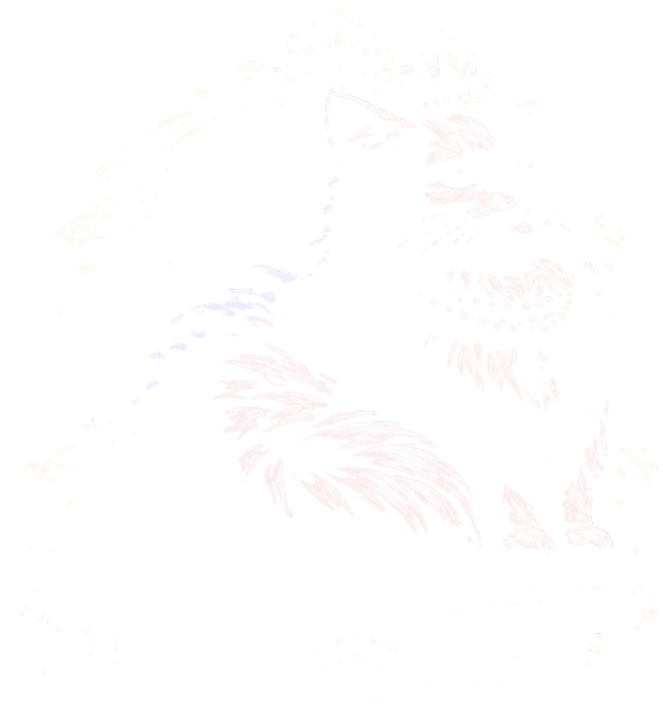
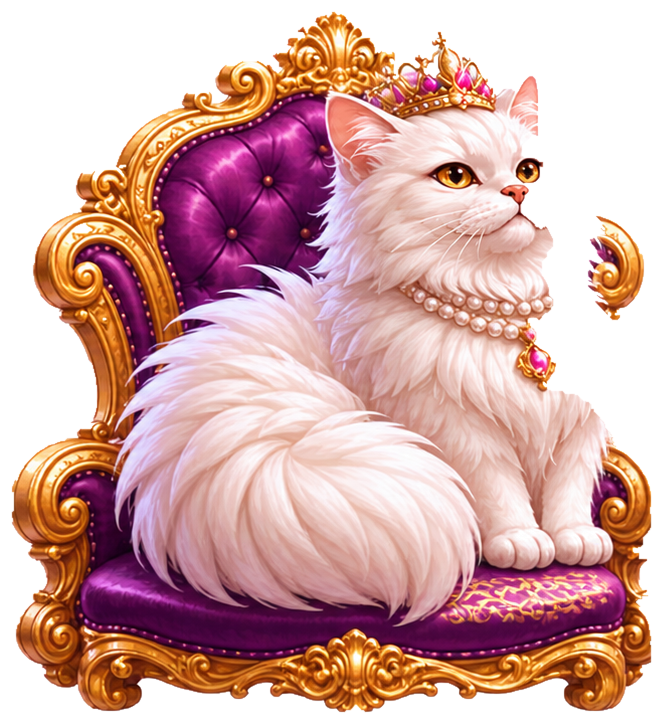
Add files via upload

diff --git a/index.html b/index.html
@@ -74,7 +74,9 @@ main{max-width:1060px;background:#fff5ed}
 .hero-cat{height:min(112vw,510px)!important}
 .hero-cat #expression{width:80px!important;height:80px!important;right:5%!important;bottom:4%!important}
 }
-</style></head><body><main><section class="palace"><div class="top"><button class="round" id="notice-open" onclick="document.getElementById('settings-dialog').showModal()" aria-label="通知">🔔</button><div class="brand"><div class="device-clock" id="device-clock" aria-label="現在時刻"></div><h1>♛ 猫さま監督官 ♛</h1><small>ねこさま かんとくかん</small></div><button class="round" id="settings-open" aria-label="設定">⚙</button></div><div class="queen"><div class="hero-cat"><img id="cat" src="queen-throne.png" alt="玉座に座る猫さま"><img id="expression" src="expression-normal.png" alt="猫さまの表情"></div><div class="hero-side"><div id="speech" class="bubble">今日の任務を申しつけるにゃ。</div></div></div></div><div id="mood" class="mood">👑 優雅にお待ちです</div></section><section class="panel"><div class="tabs"><button class="selected" data-tab="tasks">♛ 今日の任務 <span id="count">0</span></button><button data-tab="done">完了した任務</button><button data-tab="rewards">ご褒美</button></div><div id="tasks-panel"><form id="form" class="form"><input id="task" required maxlength="120" placeholder="やることを入力…"><button type="submit">＋ 追加</button><label>⏰ 締切（任意）<input type="datetime-local" id="deadline"></label></form><div id="list"></div></div><div id="rewards-panel" hidden></div></section><nav class="bottomnav" aria-label="メニュー"><button class="selected" type="button" onclick="window.scrollTo({top:0,behavior:'smooth'})">⌂ ホーム</button><button type="button" onclick="document.getElementById('task').focus()">☑ タスク</button><button type="button" onclick="document.getElementById('cat').scrollIntoView({behavior:'smooth',block:'center'})">♛ 猫さま</button><button type="button" onclick="document.getElementById('settings-dialog').showModal()">⚙ 設定</button></nav><div class="foot">猫さま監督官 Ver.7.6 · 高画質素材版<br>催促通知は画面を開いている間だけ。閉じた状態のプッシュ通知は今後対応予定です。</div></main><dialog id="settings-dialog"><h2>🔔 猫さまの催促設定</h2><div class="notice"><label>通知間隔 <select id="interval"><option value="1">1分（テスト用）</option><option value="5">5分</option><option value="15">15分</option><option value="30">30分</option></select></label><label><input id="quiet" type="checkbox" checked> 夜22時〜朝8時は通知しない</label><button id="enable" type="button">通知を有効にしてテスト送信</button><small id="status" aria-live="polite">タスクを追加すると催促するにゃ。</small><small>締切あり：締切後から催促します。アプリを閉じている間の通知は未対応です。</small></div><p style="text-align:right"><button id="settings-close" type="button">閉じる</button></p></dialog><script>
+</style><style id="v77">
+.hero-cat #cat{display:block!important;visibility:visible!important;opacity:1!important;mix-blend-mode:normal!important;mask-image:none!important;-webkit-mask-image:none!important}
+</style></head><body><main><section class="palace"><div class="top"><button class="round" id="notice-open" onclick="document.getElementById('settings-dialog').showModal()" aria-label="通知">🔔</button><div class="brand"><div class="device-clock" id="device-clock" aria-label="現在時刻"></div><h1>♛ 猫さま監督官 ♛</h1><small>ねこさま かんとくかん</small></div><button class="round" id="settings-open" aria-label="設定">⚙</button></div><div class="queen"><div class="hero-cat"><img id="cat" src="queen-throne.png" alt="玉座に座る猫さま"><img id="expression" src="expression-normal.png" alt="猫さまの表情"></div><div class="hero-side"><div id="speech" class="bubble">今日の任務を申しつけるにゃ。</div></div></div></div><div id="mood" class="mood">👑 優雅にお待ちです</div></section><section class="panel"><div class="tabs"><button class="selected" data-tab="tasks">♛ 今日の任務 <span id="count">0</span></button><button data-tab="done">完了した任務</button><button data-tab="rewards">ご褒美</button></div><div id="tasks-panel"><form id="form" class="form"><input id="task" required maxlength="120" placeholder="やることを入力…"><button type="submit">＋ 追加</button><label>⏰ 締切（任意）<input type="datetime-local" id="deadline"></label></form><div id="list"></div></div><div id="rewards-panel" hidden></div></section><nav class="bottomnav" aria-label="メニュー"><button class="selected" type="button" onclick="window.scrollTo({top:0,behavior:'smooth'})">⌂ ホーム</button><button type="button" onclick="document.getElementById('task').focus()">☑ タスク</button><button type="button" onclick="document.getElementById('cat').scrollIntoView({behavior:'smooth',block:'center'})">♛ 猫さま</button><button type="button" onclick="document.getElementById('settings-dialog').showModal()">⚙ 設定</button></nav><div class="foot">猫さま監督官 Ver.7.7 · 猫さま表示修正版<br>催促通知は画面を開いている間だけ。閉じた状態のプッシュ通知は今後対応予定です。</div></main><dialog id="settings-dialog"><h2>🔔 猫さまの催促設定</h2><div class="notice"><label>通知間隔 <select id="interval"><option value="1">1分（テスト用）</option><option value="5">5分</option><option value="15">15分</option><option value="30">30分</option></select></label><label><input id="quiet" type="checkbox" checked> 夜22時〜朝8時は通知しない</label><button id="enable" type="button">通知を有効にしてテスト送信</button><small id="status" aria-live="polite">タスクを追加すると催促するにゃ。</small><small>締切あり：締切後から催促します。アプリを閉じている間の通知は未対応です。</small></div><p style="text-align:right"><button id="settings-close" type="button">閉じる</button></p></dialog><script>
 'use strict';
 const KEY='nekoQueenV5', OLD='nekoQueenV3';
 let tasks=[];try{const stored=localStorage.getItem(KEY);tasks=JSON.parse(stored!==null?stored:(localStorage.getItem(OLD)||'[]'));if(!Array.isArray(tasks))tasks=[];tasks=tasks.filter(t=>t&&typeof t.text==='string').map(t=>({...t,at:Number(t.at)||Date.now(),deadline:t.deadline||null}));}catch(e){tasks=[]}
